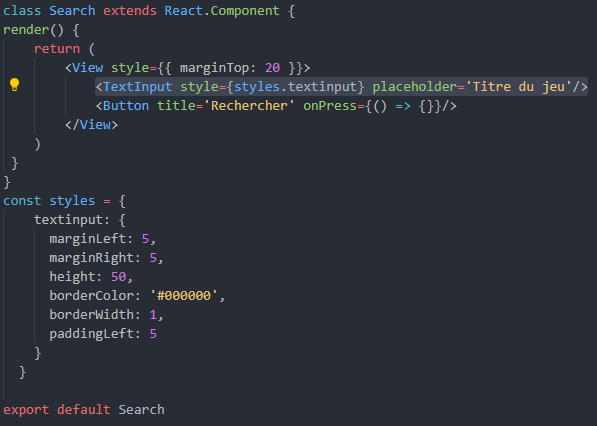
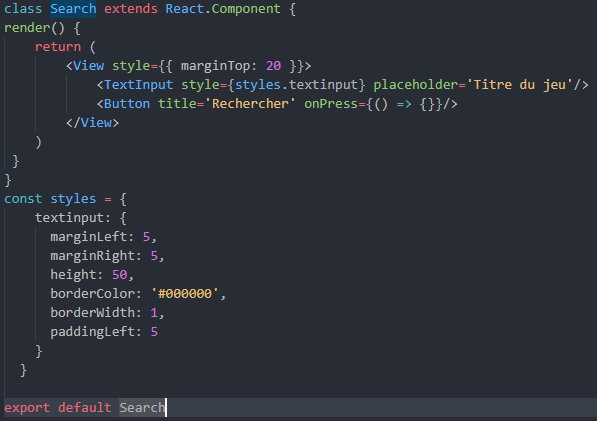
readme 4

diff --git a/react-readme/react-native-3.md b/react-readme/react-native-3.md
@@ -34,11 +34,23 @@ Si on continue comme ça, on va vite rendre notre code **illisible**, et ce n'es
 
 ## Externaliser ses styles
 Pour externaliser les styles, il suffit de créer une constante **styles** en bas de notre fichier Javascript dans *Search.js*. On reprend donc les styles précédents et on les place dans notre constante. Ce qui donne ceci :  
-
-![image const styles](../assets/img/styles-changes.png)  
+```javascript
+const styles = {
+  textinput: {
+    marginLeft: 5,
+    marginRight: 5,
+    height: 50,
+    borderColor: '#000000',
+    borderWidth: 1,
+    paddingLeft: 5
+  }
+}
+```
 
 Et les styles dans le TextInput on en fait quoi ? On les supprime et on écrit : 
 ```javascript
 <TextInput style={styles.textinput} placeholder='Titre du jeu'/>
 ```
-Simple, efficace.
+Simple, efficace. Voilà le résultat final :  
+
+![image const styles](../assets/img/styles-changes.png) 
